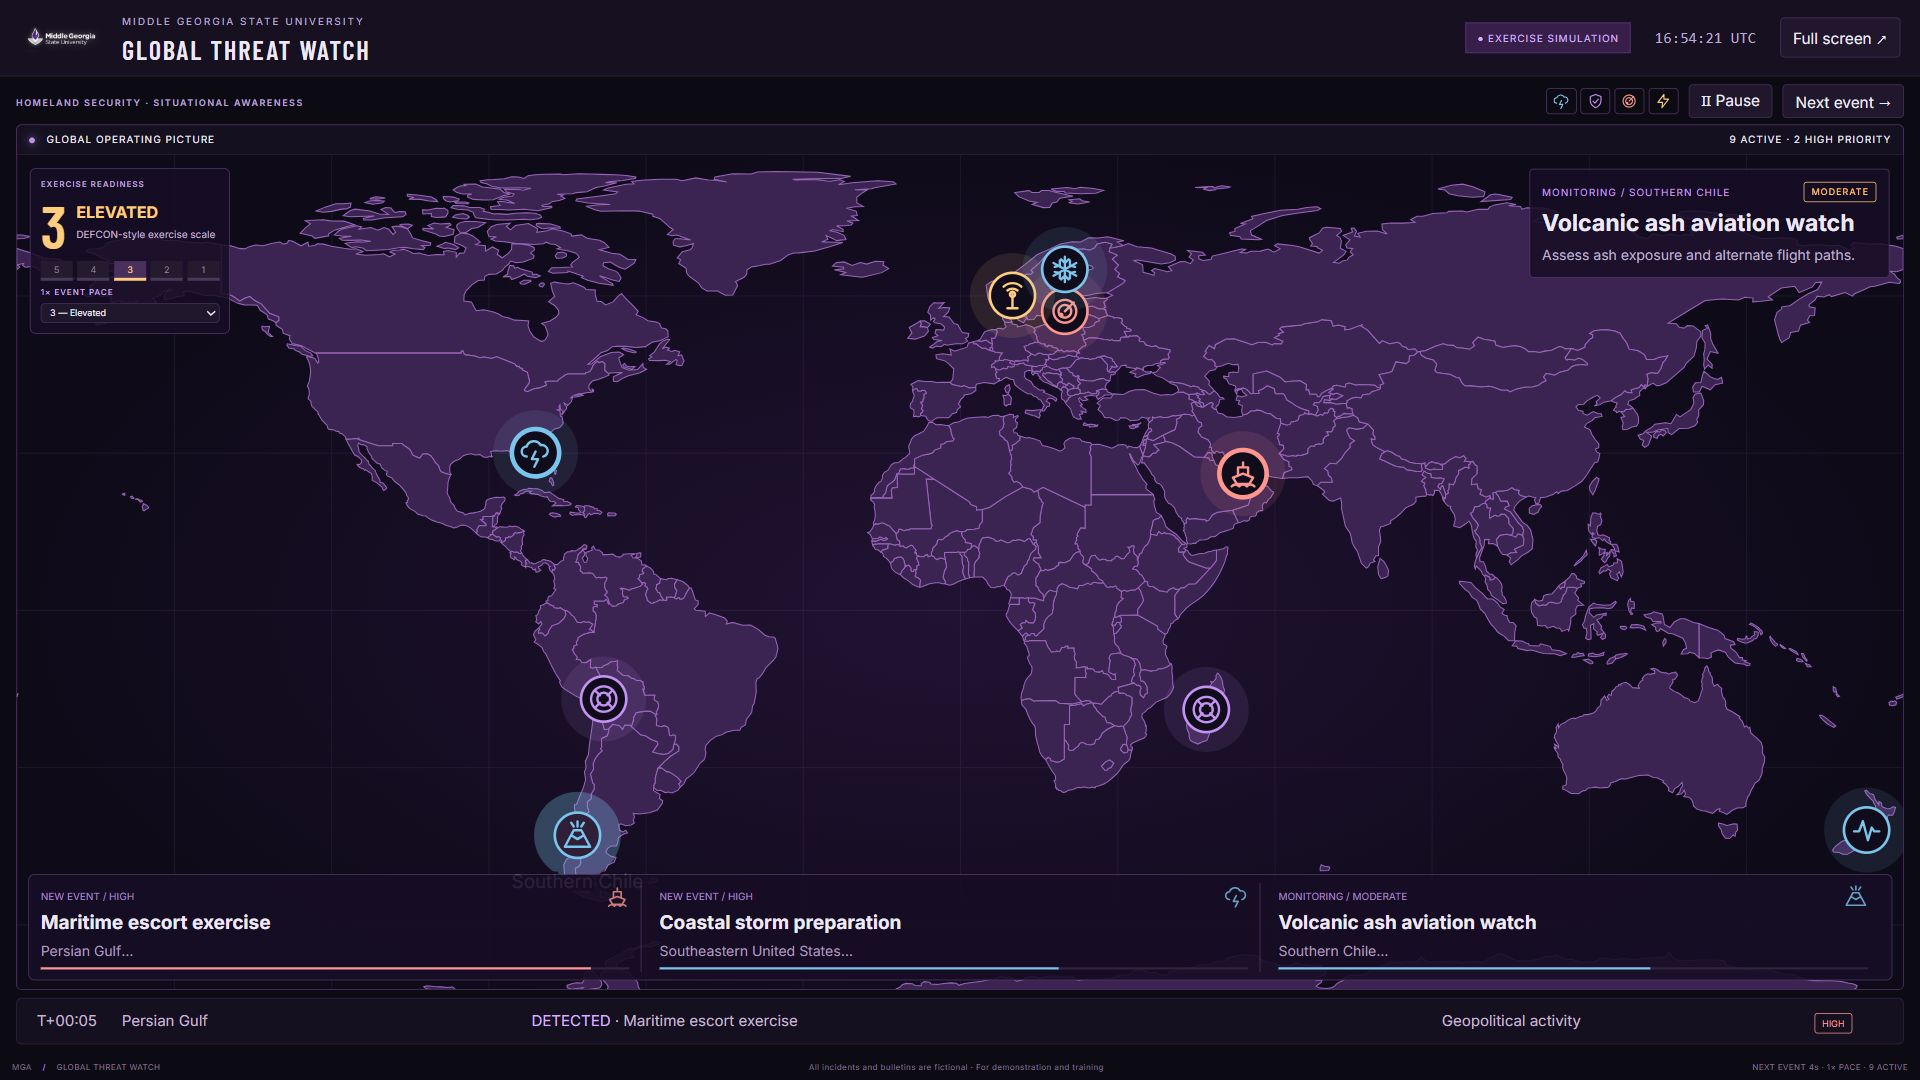
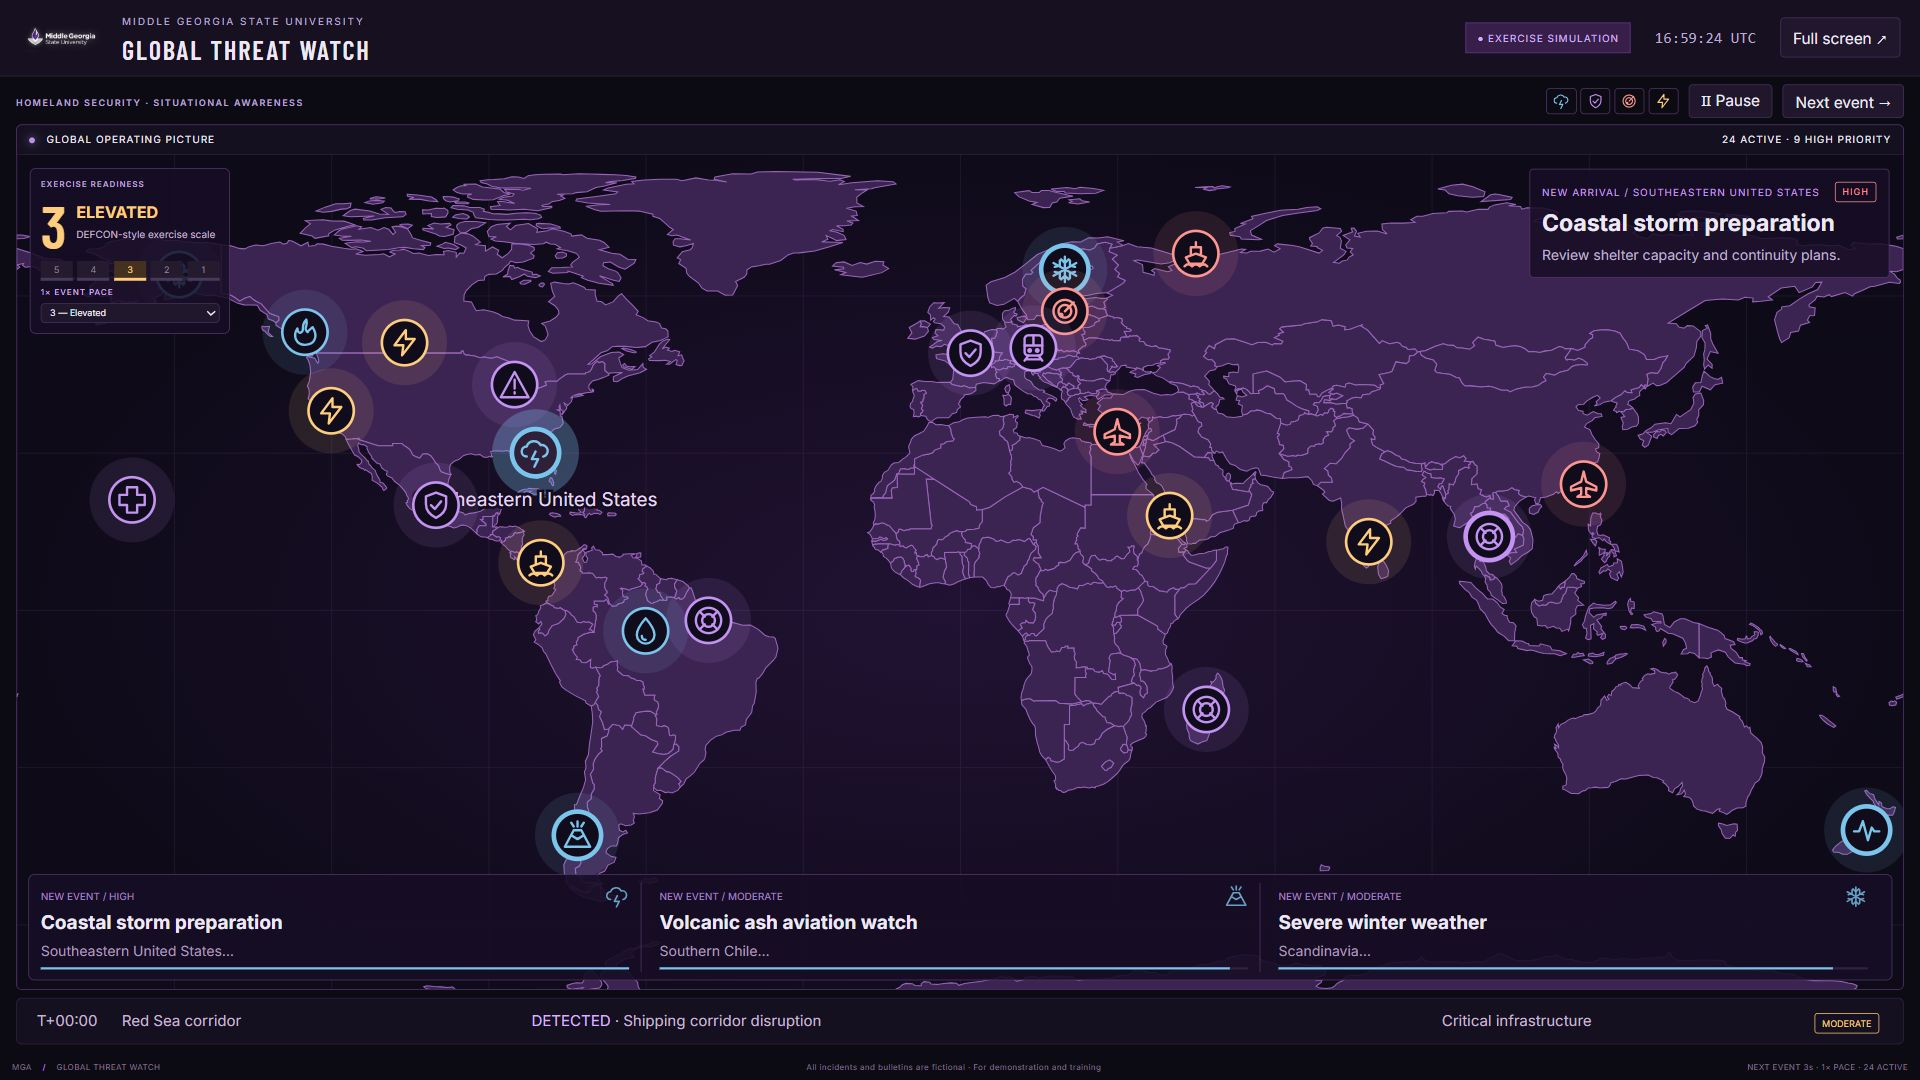
push2

diff --git a/app.js b/app.js
@@ -14,7 +14,8 @@ const scenarios=[
 {id:11,cat:'foreign',region:'Indo-Pacific',lat:10,lon:112,title:'Foreign-adversary activity scenario',priority:'Moderate',text:'Exercise inject: fictional military exercises near an international sea lane prompt analysis of regional supply-chain exposure. No real nation is accused.',action:'Brief leadership on transport and economic dependencies.'},
 {id:12,cat:'infra',region:'Australia',lat:-32,lon:145,title:'Water system continuity drill',priority:'Low',text:'Exercise inject: a fictional treatment facility outage requires temporary supply arrangements and public information coordination.',action:'Verify alternative water distribution plans.'}];
 const $=id=>document.getElementById(id),active=new Set(categories.map(c=>c.id));
-let selected=1,paused=false,elapsed=0,serial=8,nextArrival=5,nextFocus=9;
+const MAX_ACTIVE_EVENTS=36;
+let selected=1,paused=false,elapsed=0,serial=24,nextArrival=3,nextFocus=9;
 const readinessSpeeds={5:0.5,4:0.75,3:1,2:2,1:4};
 let eventSpeed=1;
 const paths={
@@ -50,7 +51,9 @@ const icon=s=>'<svg viewBox="0 0 24 24" fill="none" stroke="currentColor" stroke
 const category=id=>categories.find(c=>c.id===id);
 document.querySelector('.controls').prepend($('filters'));
 document.querySelector('.map-footer').innerHTML=categories.map(c=>'<span style="color:'+c.color+'">'+icon({icon:{weather:'storm',homeland:'shield',foreign:'radar',infra:'power'}[c.id]})+c.name+'</span>').join('');
-let live=[0,17,19,26,36,39,53,59].map((index,i)=>({...scenarios[index],uid:i+1,born:-i*5,expires:28+i*5}));
+const opening=[0,17,19,26,36,39,53,59].map(index=>scenarios[index]);
+opening.push(...shuffle(scenarios.filter(s=>!opening.some(e=>e.id===s.id))).slice(0,16));
+let live=opening.map((s,i)=>({...s,uid:i+1,born:-i*2,expires:60+i*2}));
 pending=pending.filter(s=>!live.some(e=>e.id===s.id));
 let log=live.slice(-3).map(s=>({...s,at:0,state:'DETECTED'}));
 const point=(lon,lat)=>[(lon+180)/360*1000,(90-lat)/180*500];
@@ -93,13 +96,14 @@ function render(){
  setText($('updated'),`NEXT EVENT ${Math.max(0,Math.ceil((nextArrival-elapsed)/eventSpeed))}s · ${eventSpeed}× PACE · ${live.length} ACTIVE`);
 }
 function advance(renderNow=true){
+ if(live.length>=MAX_ACTIVE_EVENTS){nextArrival=elapsed+1;return}
  if(!pending.length)pending=shuffle(scenarios);
  const index=pending.findIndex(s=>!live.some(e=>e.id===s.id));
  if(index<0){nextArrival=elapsed+3;return}
  const source=pending.splice(index,1)[0];
- const s={...source,uid:++serial,born:elapsed,expires:elapsed+38+Math.floor(Math.random()*28)};
+ const s={...source,uid:++serial,born:elapsed,expires:elapsed+90+Math.floor(Math.random()*31)};
  live.push(s);record(s,'DETECTED');if(active.has(s.cat))selected=s.id;
- nextArrival=elapsed+5+Math.floor(Math.random()*4);
+ nextArrival=elapsed+3+Math.floor(Math.random()*2);
  if(renderNow)render();
 }
 document.addEventListener('click',e=>{const layer=e.target.closest('[data-cat]');if(layer){active.has(layer.dataset.cat)?active.delete(layer.dataset.cat):active.add(layer.dataset.cat);render()}const item=e.target.closest('[data-id]');if(item&&live.some(s=>s.id===Number(item.dataset.id)))select(Number(item.dataset.id))});

diff --git a/README.md b/README.md
@@ -4,7 +4,7 @@ A static, GitHub Pages-compatible homeland security exercise dashboard. Open `in
 
 Designed for unattended full-screen TV display, with a fixed viewport layout and no scrolling. The world map fills the display area, with compact readiness and highlighted-event overlays, a three-bulletin strip, and a single latest-event ticker. Category icons beside Pause toggle the map layers. Use the Full screen button after opening the page.
 
-Fictional events arrive every 5–8 simulation seconds and live for 38–65 simulation seconds before fading and clearing. The seeded opening events clear gradually after 28–63 simulation seconds. Readiness controls the simulation clock: level 5 runs at 0.5×, level 4 at 0.75×, level 3 at 1×, level 2 at 2×, and level 1 at 4×. Click a numbered level or choose it in the dropdown. Changing level immediately speeds up or slows down the remaining arrival timers, existing event lifetimes, spotlight rotation, and map animations without resetting events. At level 5, arrivals take about 10–16 real seconds; at level 1, about 1.25–2 seconds. The next-arrival countdown shows real seconds and the event log shows simulation time.
+Fictional events arrive every 3–4 simulation seconds and live for 90–120 simulation seconds before fading and clearing. The seeded opening events clear gradually after 60–106 simulation seconds. Readiness controls the simulation clock: level 5 runs at 0.5×, level 4 at 0.75×, level 3 at 1×, level 2 at 2×, and level 1 at 4×. Click a numbered level or choose it in the dropdown. Changing level immediately speeds up or slows down the remaining arrival timers, existing event lifetimes, spotlight rotation, and map animations without resetting events. At level 5, arrivals take about 6–8 real seconds; at level 1, about 0.75–1 second. The next-arrival countdown shows real seconds and the event log shows simulation time.
 
 New arrivals show expanding rings; aging events dim in their final five simulation seconds. The highlighted location rotates every nine simulation seconds. The catalog contains 60 fictional scenarios and 18 vector icons, including wildfire, blizzard, volcanic ash, floods, hazmat, aviation, rail, rescue, medical logistics, and communications. Opening events span multiple continents; a shuffled catalog gives every scenario a turn before repeating. Event history and the active marker collection remain bounded.
 
@@ -17,3 +17,6 @@ Includes category filters, pause/advance controls, keyboard-accessible markers, 
 No build or dependencies are required. Map geometry and the MGA logo are reused from the public MGA threat-sim project. Typography uses Google Fonts with system fallbacks. The dashboard itself and map work without network access after downloading the files.
 
 For GitHub Pages, publish the repository root from the main branch. This project has not been deployed by this change.
+
+The display starts with 24 active events and typically sustains roughly 30, with a hard cap of 36 including manually added events.
+
